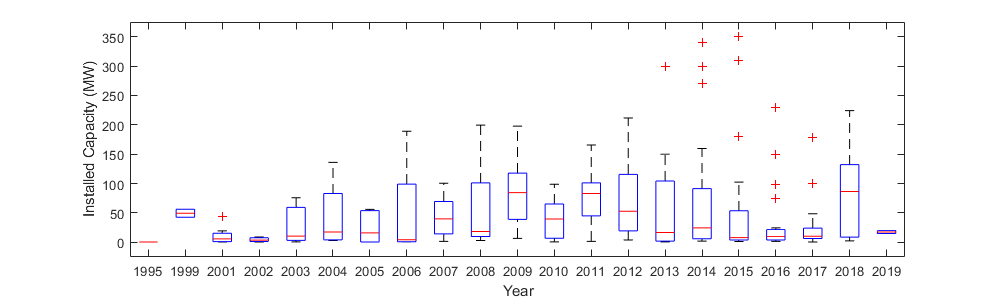
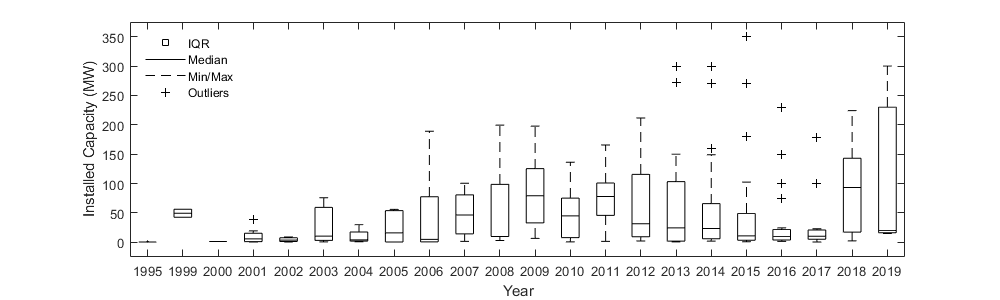
Fix 2019 data - add Whitla

diff --git a/June 16, 2020/average_sz.m b/June 16, 2020/average_sz.m
@@ -34,9 +34,17 @@ cp     = data.Capacity;
 clear data
 
 % Create boxplot
-boxplot(cp,yr);
+boxplot(cp,yr,'Colors','k','Symbol','k+'); hold on
 ylim([-25 375]);
 xlabel('Year');
 ylabel('Installed Capacity (MW)');
-set(gcf,'Position',[200 500 1000 300]); % [xpos ypos width height]
+set(gcf,'Position',[200 300 1000 300]); % [xpos ypos width height]
+
+% Plot 'dummy' variables for legend entry
+scatter(1,1,1,[0 0 0],'s');
+plot(1,1,'k-');
+plot(1,1,'k--');
+scatter(1,1,1,[0 0 0],'+');
+legend('IQR','Median','Min/Max','Outliers','Location','NorthWest');
+legend boxoff;
 
